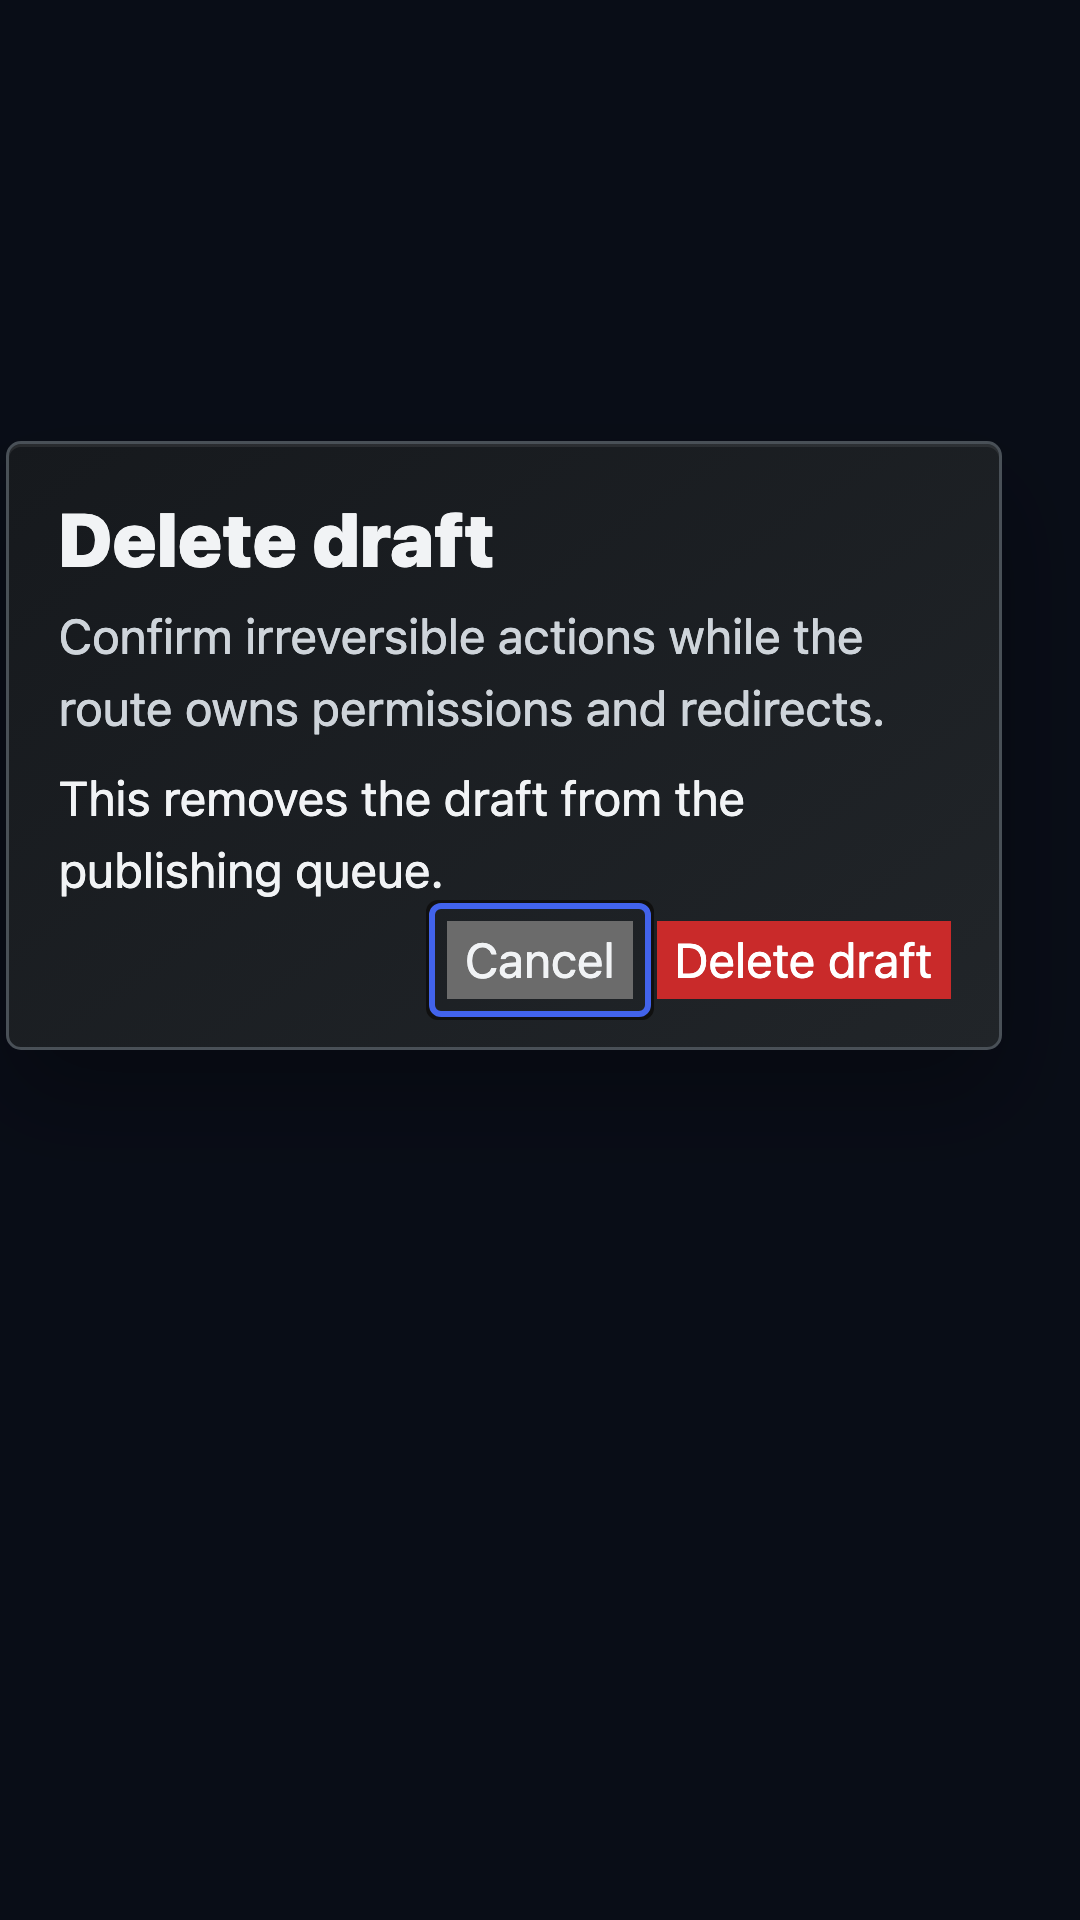
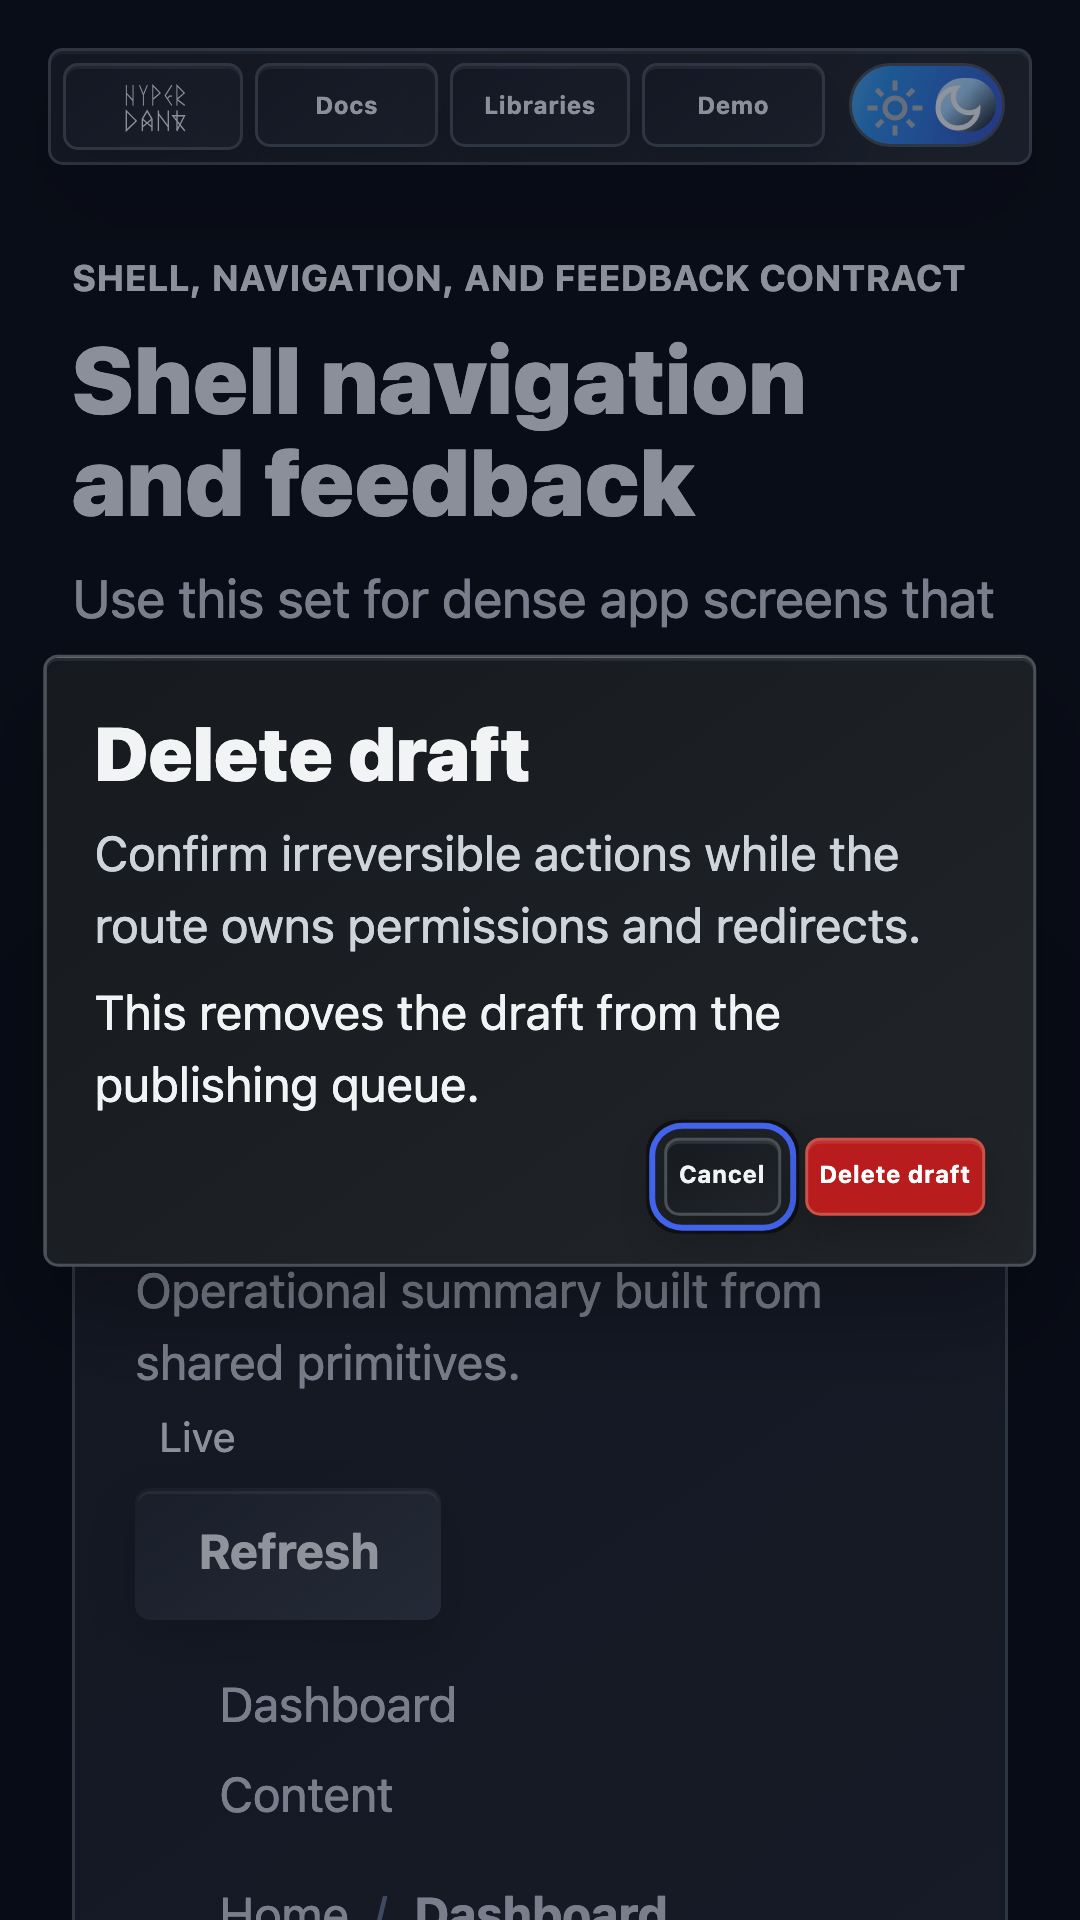
fix(ui): align overlay controls with shared buttons

diff --git a/libs/components/src/styles.css b/libs/components/src/styles.css
@@ -374,6 +374,27 @@
   background-image: var(--hd-surface-gradient);
 }
 
+.button[data-variant="danger"],
+.link-button[data-variant="danger"] {
+  background: var(--hd-status-danger, #b91c1c);
+  border-color: color-mix(in oklab, var(--hd-status-danger, #b91c1c) 82%, CanvasText 18%);
+  color: white;
+}
+
+.button[data-variant="outline"],
+.link-button[data-variant="outline"] {
+  background-image: var(--hd-surface-gradient);
+  color: inherit;
+}
+
+.button[data-variant="text"],
+.link-button[data-variant="text"] {
+  background-image: none;
+  border-color: transparent;
+  box-shadow: none;
+  padding-inline: 0;
+}
+
 .callout,
 .code-block,
 .alert-dialog,
@@ -475,9 +496,23 @@
 .alert-dialog,
 .drawer {
   border: 1px solid var(--hd-surface-border);
+  box-sizing: border-box;
   color: inherit;
   margin: auto;
   max-inline-size: min(92vw, 34rem);
+  min-inline-size: 0;
+}
+
+.alert-dialog {
+  inset: auto;
+  inset-block-start: 50dvh;
+  inset-inline-start: 50vw;
+  inline-size: min(92vw, 34rem);
+  margin: 0;
+  max-block-size: calc(100dvh - 2rem);
+  overflow: auto;
+  position: fixed;
+  transform: translate(-50%, -50%);
 }
 
 .alert-dialog::backdrop,
@@ -495,6 +530,7 @@
 .alert-dialog-header {
   display: grid;
   gap: 0.35rem;
+  min-inline-size: 0;
 }
 
 .alert-dialog-header h2,
@@ -508,12 +544,15 @@
 .drawer-header p {
   color: var(--text-muted, color-mix(in oklab, CanvasText 62%, Canvas 38%));
   margin: 0.35rem 0 0;
+  overflow-wrap: anywhere;
 }
 
 .alert-dialog-body,
 .drawer-body {
   display: grid;
   gap: 0.6rem;
+  min-inline-size: 0;
+  overflow-wrap: anywhere;
 }
 
 .alert-dialog-actions,
@@ -523,12 +562,6 @@
   flex-wrap: wrap;
   gap: 0.5rem;
   justify-content: end;
-}
-
-.alert-dialog-confirm[data-tone="danger"] {
-  background: var(--danger, #b42318);
-  border-color: color-mix(in oklab, var(--danger, #b42318) 80%, CanvasText 20%);
-  color: white;
 }
 
 .drawer {

diff --git a/libs/components/src/molecules/AlertDialog/AlertDialog.tsx b/libs/components/src/molecules/AlertDialog/AlertDialog.tsx
@@ -37,6 +37,7 @@ export const AlertDialog = ({
   ...hxProps
 }: AlertDialogProps) => {
   const classes = ["alert-dialog", className].filter(Boolean).join(" ");
+  const confirmVariant = tone === "danger" ? "danger" : "primary";
   const titleId = `${id}-title`;
   const descriptionId = description ? `${id}-description` : undefined;
   const triggerScript = `document.getElementById(${JSON.stringify(id)})?.showModal()`;
@@ -45,7 +46,9 @@ export const AlertDialog = ({
     <div className="alert-dialog-wrapper">
       <button
         type="button"
-        className="alert-dialog-trigger"
+        className="button alert-dialog-trigger"
+        data-size="default"
+        data-variant="outline"
         aria-haspopup="dialog"
         aria-controls={id}
         onclick={triggerScript}
@@ -75,13 +78,20 @@ export const AlertDialog = ({
           method={method}
           {...htmxAttributes(hxProps)}
         >
-          <button type="submit" formmethod="dialog">
+          <button
+            type="submit"
+            className="button"
+            data-size="compact"
+            data-variant="outline"
+            formmethod="dialog"
+          >
             {cancelLabel}
           </button>
           <button
             type="submit"
-            className="alert-dialog-confirm"
-            data-tone={tone}
+            className="button alert-dialog-confirm"
+            data-size="compact"
+            data-variant={confirmVariant}
             name={confirmName}
             value={confirmValue}
           >

diff --git a/libs/components/src/molecules/AlertDialog/AlertDialog.test.tsx b/libs/components/src/molecules/AlertDialog/AlertDialog.test.tsx
@@ -22,6 +22,8 @@ describe("AlertDialog", () => {
     );
 
     expect(html).toContain('class="alert-dialog-wrapper"');
+    expect(html).toContain('class="button alert-dialog-trigger"');
+    expect(html).toContain('data-variant="outline"');
     expect(html).toContain('aria-haspopup="dialog"');
     expect(html).toContain('aria-controls="delete-post"');
     expect(html).toContain('role="alertdialog"');
@@ -30,6 +32,8 @@ describe("AlertDialog", () => {
     expect(html).toContain('href="/posts/1/delete"');
     expect(html).toContain('action="/posts/1/delete"');
     expect(html).toContain('formmethod="dialog"');
+    expect(html).toContain('class="button alert-dialog-confirm"');
+    expect(html).toContain('data-variant="danger"');
     expect(html).toContain('name="intent"');
     expect(html).toContain('value="delete"');
   });
@@ -52,6 +56,22 @@ describe("AlertDialog", () => {
     expect(html).toContain('hx-post="/posts/1/archive"');
     expect(html).toContain('hx-target="#post-row-1"');
     expect(html).toContain('hx-swap="outerHTML"');
+  });
+
+  test("can render a non-danger confirm variant", () => {
+    const html = render(
+      <AlertDialog
+        id="restore-post"
+        title="Restore post"
+        triggerLabel="Restore"
+        confirmLabel="Restore"
+        tone="default"
+      >
+        Restore this post.
+      </AlertDialog>,
+    );
+
+    expect(html).toContain('data-variant="primary"');
   });
 
   test("serializes the trigger target id as a JavaScript string literal", () => {

diff --git a/apps/walking-pace/scripts/lib/screenshot-flows.ts b/apps/walking-pace/scripts/lib/screenshot-flows.ts
@@ -473,7 +473,9 @@ async function scrollStagedFormActionsIntoView({ page }: ScreenshotFlowContext) 
 }
 
 async function openConfirmDialogPrimitive({ page }: ScreenshotFlowContext) {
-  await page.getByRole("button", { name: "Review delete" }).scrollIntoViewIfNeeded();
+  await page.evaluate(() => {
+    globalThis.scrollTo(0, 0);
+  });
   await page.evaluate(() => {
     const { document } = globalThis as unknown as BrowserGlobals;
     const dialog = document.querySelector("#delete-draft") as BrowserElement & {
@@ -487,6 +489,9 @@ async function openConfirmDialogPrimitive({ page }: ScreenshotFlowContext) {
 
 async function openDrawerPrimitive({ page }: ScreenshotFlowContext) {
   await page.getByRole("button", { name: "Open sections" }).scrollIntoViewIfNeeded();
+  await page.evaluate(() => {
+    globalThis.scrollTo(0, globalThis.scrollY);
+  });
   await page.evaluate(() => {
     const { document } = globalThis as unknown as BrowserGlobals;
     const dialog = document.querySelector("#mobile-sections") as BrowserElement & {

diff --git a/libs/components/src/styles.test.ts b/libs/components/src/styles.test.ts
@@ -14,6 +14,9 @@ describe("shared component styles", () => {
     expect(css).toContain(".breadcrumbs li + li::before");
     expect(css).toContain('.breadcrumbs [aria-current="page"]');
     expect(css).toContain('.button[data-variant="ghost"]');
+    expect(css).toContain('.button[data-variant="danger"]');
+    expect(css).toContain('.button[data-variant="outline"]');
+    expect(css).toContain('.button[data-variant="text"]');
     expect(css).toContain(".button-group");
     expect(css).toContain(".callout");
     expect(css).toContain(".choice-field");
@@ -23,7 +26,7 @@ describe("shared component styles", () => {
     expect(css).toContain(".form-field {\n  min-inline-size: 0;");
     expect(css).toContain(".range-field-value");
     expect(css).toContain(".alert-dialog");
-    expect(css).toContain(".alert-dialog-confirm");
+    expect(css).toContain(".alert-dialog-actions");
     expect(css).toContain(".dialog");
     expect(css).toContain("dialog.dialog:not([open])");
     expect(css).toContain(".drawer");

diff --git a/libs/components/src/molecules/Drawer/Drawer.tsx b/libs/components/src/molecules/Drawer/Drawer.tsx
@@ -39,7 +39,9 @@ export const Drawer = ({
     <div className="drawer-wrapper">
       <button
         type="button"
-        className="drawer-trigger"
+        className="button drawer-trigger"
+        data-size="default"
+        data-variant="outline"
         aria-label={triggerLabel}
         aria-haspopup="dialog"
         aria-controls={id}
@@ -66,7 +68,13 @@ export const Drawer = ({
             {description ? <p id={descriptionId}>{description}</p> : undefined}
           </div>
           <form method="dialog">
-            <button type="submit" aria-label={closeLabel}>
+            <button
+              type="submit"
+              className="button"
+              data-size="compact"
+              data-variant="ghost"
+              aria-label={closeLabel}
+            >
               {closeLabel}
             </button>
           </form>

diff --git a/libs/components/src/molecules/Drawer/Drawer.test.tsx b/libs/components/src/molecules/Drawer/Drawer.test.tsx
@@ -22,6 +22,8 @@ describe("Drawer", () => {
     );
 
     expect(html).toContain('class="drawer-wrapper"');
+    expect(html).toContain('class="button drawer-trigger"');
+    expect(html).toContain('data-variant="outline"');
     expect(html).toContain('aria-haspopup="dialog"');
     expect(html).toContain('aria-label="Open navigation"');
     expect(html).toContain('aria-controls="mobile-nav"');
@@ -31,6 +33,7 @@ describe("Drawer", () => {
     expect(html).toContain('aria-describedby="mobile-nav-description"');
     expect(html).toContain('href="/navigation"');
     expect(html).toContain('method="dialog"');
+    expect(html).toContain('data-variant="ghost"');
     expect(html).toContain('class="drawer-actions"');
     expect(html).toContain('aria-label="Sections"');
   });
